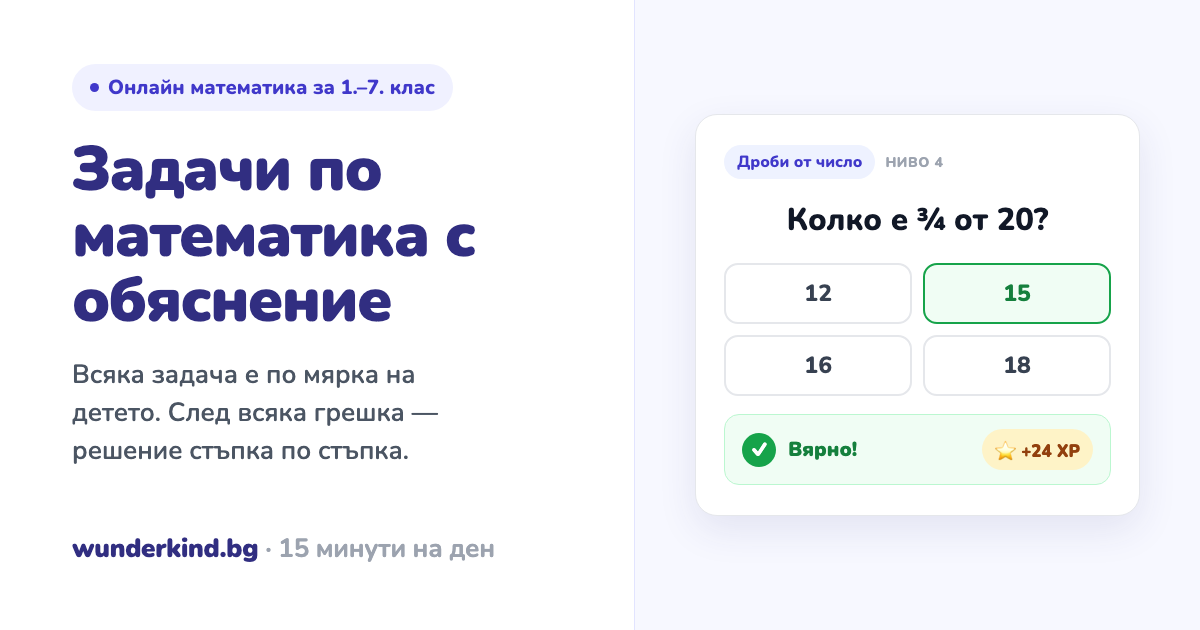
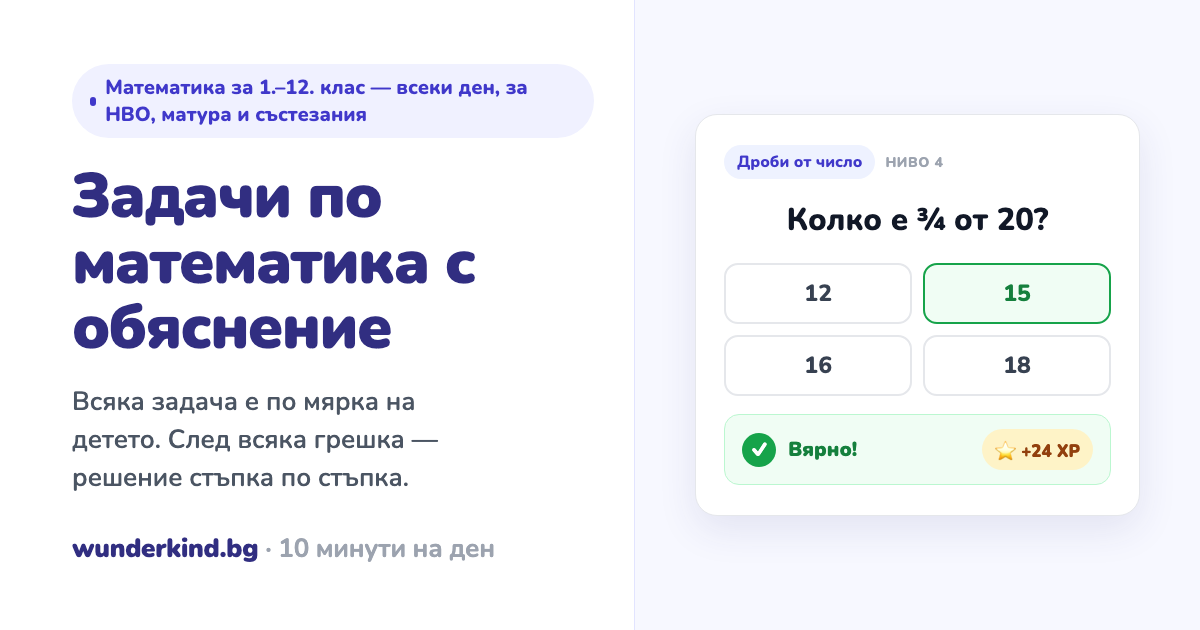
New students start gentler: feedback after every answer, 10 minutes a day
Feedback after an answer is now on by default for new accounts, so a child
sees the verdict and the worked explanation before the next problem.

The default daily session drops from 15 to 10 minutes, and the length is the
parent's call: the child's page offers 5/10/15/20/30 under „Цели и награди"
(Parents::DailyMinutesController), and a child with a linked parent sees the
number read-only in Настройки. Students who never chose a length are written
down at 15, so nobody's session shrinks unannounced; existing feedback
settings are left as they are.

Changed region(s): [[0.0617, 0.2111, 0.4008, 0.7841], [0.0617, 0.1206, 0.4625, 0.2111], [0.2467, 0.8444, 0.2775, 0.8746]]

diff --git a/app/assets/tailwind/application.css b/app/assets/tailwind/application.css
@@ -820,11 +820,12 @@ body {
   }
 
   /* A row of sibling pages that read as one place — the duel's rooms,
-     friends and leaderboard. Links, not buttons: each tab is its own URL. */
+     friends and leaderboard — where each tab is a link to its own URL. The
+     same strip of buttons is a one-tap setting (a child's daily minutes). */
   .segmented {
     @apply flex w-fit max-w-full flex-wrap gap-1 rounded-[14px] bg-ink-100 p-1;
 
-    a {
+    a, button {
       @apply inline-flex min-h-11 items-center gap-2 rounded-[10px] px-4 text-[15px] font-extrabold text-ink-600 hover:text-ink-900;
 
       &.is-active { @apply bg-white font-black text-ink-900; box-shadow: var(--edge-control); }

diff --git a/spec/requests/daily_minutes_spec.rb b/spec/requests/daily_minutes_spec.rb
@@ -1,0 +1,58 @@
+require "rails_helper"
+
+describe "Daily practice length", type: :request do
+  let(:parent) { create(:user, role: :parent, verified_at: Time.current) }
+  let(:child) { create(:user, role: :student, name: "Мира") }
+
+  before { ParentLink.create!(parent: parent, child: child) }
+
+  it "starts a new student on the short default" do
+    DailyPractice::DEFAULT_MINUTES.should eq(10)
+    create(:user).daily_minutes_target.should be_nil
+  end
+
+  it "lets a parent choose one of the offered lengths for a linked child" do
+    sign_in parent
+    get parents_child_path(child, tab: "goals")
+    response.body.should include(I18n.t("parents.daily_minutes.title"))
+
+    patch parents_child_daily_minutes_path(child), params: { minutes: 20 }
+
+    response.should redirect_to(parents_child_path(child, tab: "goals", anchor: "daily-minutes"))
+    child.reload.daily_minutes_target.should eq(20)
+  end
+
+  it "ignores a length that is not on the menu" do
+    sign_in parent
+    patch parents_child_daily_minutes_path(child), params: { minutes: 120 }
+
+    child.reload.daily_minutes_target.should be_nil
+  end
+
+  it "refuses a child the parent is not linked to" do
+    stranger = create(:user, role: :student)
+    sign_in parent
+    patch parents_child_daily_minutes_path(stranger), params: { minutes: 20 }
+
+    response.should have_http_status(:not_found)
+    stranger.reload.daily_minutes_target.should be_nil
+  end
+
+  it "shows a child with a parent the length without a field, and keeps it theirs to set otherwise" do
+    child.update!(daily_minutes_target: 15)
+    sign_in child
+    get settings_path
+    response.body.should include(I18n.t("profile.daily_minutes_by_parent", count: 15))
+    response.body.should_not include("user[daily_minutes_target]")
+
+    patch profile_path, params: { user: { daily_minutes_target: 30 } }
+    child.reload.daily_minutes_target.should eq(15)
+
+    loner = create(:user, role: :student)
+    sign_in loner
+    get settings_path
+    response.body.should include("user[daily_minutes_target]")
+    patch profile_path, params: { user: { daily_minutes_target: 5 } }
+    loner.reload.daily_minutes_target.should eq(5)
+  end
+end

diff --git a/app/controllers/parents/daily_minutes_controller.rb b/app/controllers/parents/daily_minutes_controller.rb
@@ -1,0 +1,20 @@
+module Parents
+  # How long a child's daily session is. The parent's call for any child they
+  # are linked to, managed or not, which is why the child's own settings show
+  # the number without a field once a parent is linked — see
+  # SettingsController. Anything off DailyPractice::MINUTES_OPTIONS is refused
+  # quietly, the way a fiddled form is everywhere else.
+  class DailyMinutesController < BaseController
+    def update
+      child = current_user.children.find(params[:child_id])
+      minutes = params[:minutes].to_i
+
+      if DailyPractice::MINUTES_OPTIONS.include?(minutes)
+        child.update!(daily_minutes_target: minutes)
+        flash[:notice] = t("parents.daily_minutes.saved", name: child.name, count: minutes)
+      end
+
+      redirect_to parents_child_path(child, tab: "goals", anchor: "daily-minutes")
+    end
+  end
+end

diff --git a/app/controllers/profiles_controller.rb b/app/controllers/profiles_controller.rb
@@ -27,7 +27,10 @@ class ProfilesController < AuthenticatedController
   private
 
 def profile_params
-  fields = [ :name, :nickname, :feedback_after_answer, :sound_effects, :daily_minutes_target ]
+  fields = [ :name, :nickname, :feedback_after_answer, :sound_effects ]
+  # Once a parent is linked, the session length is theirs to set
+  # (Parents::DailyMinutesController); the form only shows the number then.
+  fields << :daily_minutes_target unless current_user.parents.exists?
   # A school grade is only estimated for a child, and each optional email is
   # only offered to whoever it is for (EmailPreferences).
   fields += [ :birth_year, :grade_offset ] if current_user.student?

diff --git a/db/migrate/20261029120001_keep_daily_minutes_for_existing_students.rb b/db/migrate/20261029120001_keep_daily_minutes_for_existing_students.rb
@@ -1,0 +1,16 @@
+# The default daily session drops from 15 to 10 minutes for new students
+# (DailyPractice::DEFAULT_MINUTES). A student who never chose a length has
+# been practising 15 minutes a day; writing that number down keeps their
+# session the length it has always been rather than shortening it unannounced.
+class KeepDailyMinutesForExistingStudents < ActiveRecord::Migration[8.0]
+  def up
+    execute <<~SQL
+      UPDATE users SET daily_minutes_target = 15
+      WHERE daily_minutes_target IS NULL AND role = 0
+    SQL
+  end
+
+  def down
+    # Nothing to undo: 15 is what these accounts were getting anyway.
+  end
+end

diff --git a/app/services/daily_practice.rb b/app/services/daily_practice.rb
@@ -3,7 +3,13 @@
 module DailyPractice
   extend self
 
-  DEFAULT_MINUTES = 15
+  # Short on purpose: a child who finishes wants to come back tomorrow, one
+  # who runs out of patience halfway does not. A parent raises it from the
+  # child's page (Parents::DailyMinutesController) once the habit is there.
+  DEFAULT_MINUTES = 10
+  # What a parent can choose from — a few sensible lengths rather than a
+  # number field, which invited 120.
+  MINUTES_OPTIONS = [ 5, 10, 15, 20, 30 ].freeze
   DEFAULT_SECONDS_PER_QUESTION = 45
   MIN_QUESTIONS = 5
   MAX_QUESTIONS = 30

diff --git a/spec/requests/answer_sounds_spec.rb b/spec/requests/answer_sounds_spec.rb
@@ -6,7 +6,7 @@ require "rails_helper"
 # because only the page the student is still looking at is allowed to start
 # audio in Safari and Firefox — see app/javascript/lib/sounds.js.
 describe "Answer sounds", type: :request do
-  let(:student) { create(:user, elo: 1200) }
+  let(:student) { create(:user, elo: 1200, feedback_after_answer: false) }
 
   def assignment_with(count, *traits, **question_attributes)
     assignment = Assignment.create!(user: student)

diff --git a/db/migrate/20261029100001_turn_on_feedback_after_answer_by_default.rb b/db/migrate/20261029100001_turn_on_feedback_after_answer_by_default.rb
@@ -1,0 +1,8 @@
+# New students see the feedback card after every answer — the verdict and the
+# worked explanation — unless they switch it off in Настройки. Existing
+# accounts keep whatever they have.
+class TurnOnFeedbackAfterAnswerByDefault < ActiveRecord::Migration[8.0]
+  def change
+    change_column_default :users, :feedback_after_answer, from: false, to: true
+  end
+end

diff --git a/config/routes.rb b/config/routes.rb
@@ -130,6 +130,7 @@ end
     resources :children, only: [ :index, :new, :create, :show ] do
       resources :goals, only: [ :new, :create ]
       resource :league_permission, only: [ :update ]
+      resource :daily_minutes, only: [ :update ]
       get "stats/:date", action: :stats_day, on: :member, as: :stats_day
     end
     resources :goals, only: [ :destroy ]

diff --git a/spec/services/daily_practice_and_leaderboards_spec.rb b/spec/services/daily_practice_and_leaderboards_spec.rb
@@ -17,7 +17,8 @@ describe DailyPractice do
     user.update!(daily_minutes_target: nil)
     create_list(:question, 25, elo: 1200)
 
-    DailyPractice.execute(user:).questions.count.should eq(20)
+    # DEFAULT_MINUTES (10) at 45s per question.
+    DailyPractice.execute(user:).questions.count.should eq(13)
   end
 end
 

diff --git a/spec/requests/answer_skip_spec.rb b/spec/requests/answer_skip_spec.rb
@@ -1,7 +1,7 @@
 require "rails_helper"
 
 describe "Skipping a question", type: :request do
-  let(:student) { create(:user, elo: 1200) }
+  let(:student) { create(:user, elo: 1200, feedback_after_answer: false) }
 
   def assignment_with(count)
     assignment = Assignment.create!(user: student)

diff --git a/e2e/README.md b/e2e/README.md
@@ -28,9 +28,9 @@ one already changed.
 
 | account | for |
 | --- | --- |
-| `student@e2e.test` | practice, and backing out of a duel lobby |
-| `feedback@e2e.test` | the feedback card (`feedback_after_answer` on) |
-| `skip@e2e.test` | „не съм го учил" |
+| `student@e2e.test` | practice with `feedback_after_answer` off, and backing out of a duel lobby |
+| `feedback@e2e.test` | the feedback card (`feedback_after_answer` on, the default) |
+| `skip@e2e.test` | „не съм го учил" (feedback off, so a skip moves straight on) |
 | `wrong@e2e.test` | /review — has one wrong answer, filed through AnswerSubmission |
 | `duel-a@`, `duel-b@e2e.test` | the two sides of a duel |
 | `parent@e2e.test` | goals and rewards, manages Ния |
